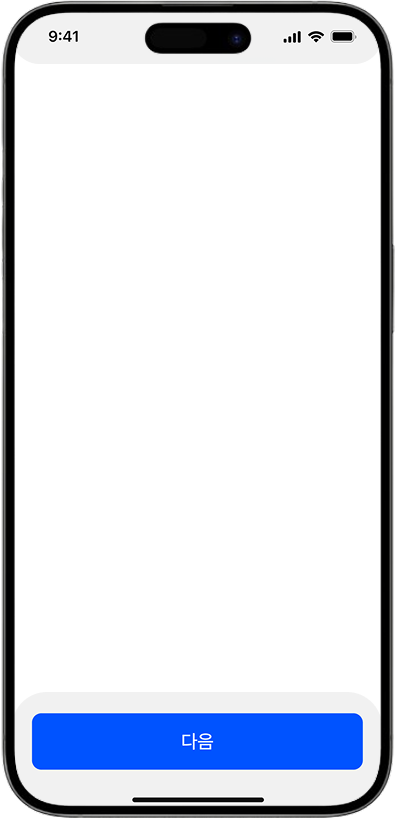
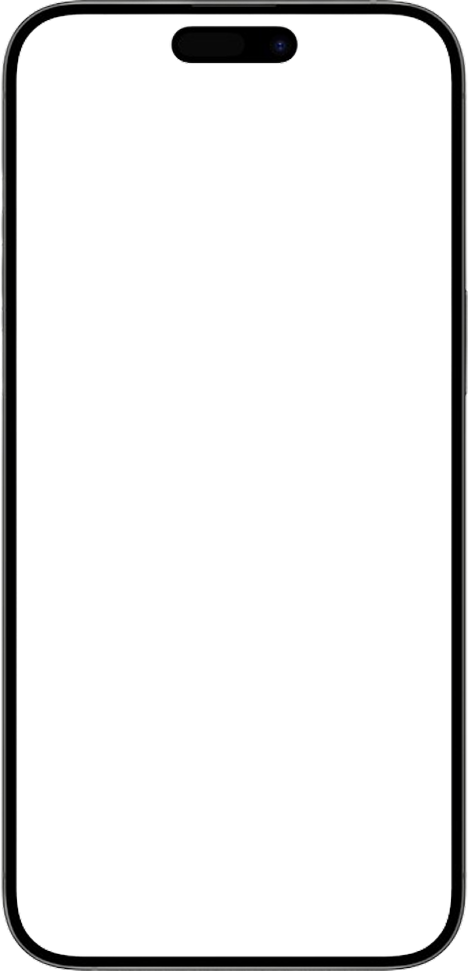
영상 ㅏ속도 1.5배속

Changed region(s): [[0.0, 0.0, 1.0, 1.0], [0.0608, 0.978, 0.1215, 1.0]]

diff --git a/index.js b/index.js
@@ -1,4 +1,7 @@
 const introVideo = document.getElementById("video");
+
+introVideo.playbackRate = 1.5;
+
 const videoSection = document.getElementById("introVideo_wrap");
 
 const videoPlayback = 1000;
@@ -311,7 +314,7 @@ introVideo.addEventListener('seeked', () => {
 Go_getCake_btn.addEventListener("click", ()=>{
   customScrollTo({
         target: '#interaction',
-        offset: -30,
+        offset: 30,
         duration: 1.5
     });
 
@@ -367,6 +370,7 @@ const ScanIssue = document.getElementById('ScanIssue')
 const Food_sharing = document.getElementById('Food_sharing')
 const Look_system = document.getElementById('Look_system')
 const last_wegluePhoto = document.getElementById('last_wegluePhoto')
+const interaction_title = document.getElementById('interaction_title')
 
 
 
@@ -379,32 +383,35 @@ setupScrollSnapObserver(ScanIssue, 0.3, -50, 0);
 setupScrollSnapObserver(Food_sharing, 0.3, -50, 0);
 setupScrollSnapObserver(Look_system, 0.3, -50, 0);
 setupScrollSnapObserver(last_wegluePhoto, 0.3, -50, 0);
+setupScrollSnapObserver(interaction_title , 1, 0, 0);
+
 
 
 
 const moderation_Mockups_bg = document.querySelector('.moderation_Mockups')
-const moderation_Mockup_screen = document.querySelector('.moderation_Mockup_screen')
+const moderation_Mockup_screens = document.querySelectorAll('.moderation_Mockup_screen')
+const Mockup_screen = document.querySelector('.Iphone_MockUp')
 
+let Mockup_screen_num = 0
+
+Mockup_screen.addEventListener("click", () => {
+
+    if(Mockup_screen_num == 5){
+        Mockup_screen_num = 0
+    }
+
+    
+    moderation_Mockup_screens[Mockup_screen_num].classList.add('outLeft')
+
+    Mockup_screen_num++;
+
+    moderation_Mockup_screens[Mockup_screen_num].classList.remove("standby")
+
+
+
+})
 
 let moderation_screen_pos = 0
 let moderation_bg_pos = 225
 
 
-setInterval(()=> {
-    // if(moderation_screen_pos){
-
-   if(moderation_screen_pos < 1660){
-    moderation_bg_pos -=312
-    moderation_screen_pos += 332
-   }else{
-    moderation_screen_pos = 0
-    moderation_bg_pos = 225
-   }
-
-    
-    moderation_Mockup_screen.style.left = `-${moderation_screen_pos}px`
-    
-    moderation_Mockups_bg.style.left = `calc(50% + ${moderation_bg_pos}px)`
-    //  }
-
-}, 3000)

diff --git a/index.html b/index.html
@@ -306,7 +306,7 @@
 
         
         <section id="interaction">
-            <p class="subheading">Try it out!</p>
+            <p class="subheading" id="interaction_title" >Try it out!</p>
             <p class="description">슬기의 케이크가 사라졌어요!<br>
                 직접 위글루 앱을 실행하여 케이크를 훔친 범인을 조회해보세요.</p>
             <ul id="interaction_panel">
@@ -2345,9 +2345,15 @@
 
                     </div>
 
-                    <img class="Iphone_MockUp" src="Img/Mockup_phone_App_moderation.png">
+                    <img class="Iphone_MockUp" src="Img/Mockup_iPhone_.png">
                     <div class="moderation_Mockup_screen_wrap">
-                        <img class="moderation_Mockup_screen" src="Img/moderation_Mockup_screen.png">
+                        <img class="moderation_Mockup_screen" src="Img/phone_screen/phhone_6_1.png">
+                        <img class="moderation_Mockup_screen standby" src="Img/phone_screen/phhone_6_2.png">
+                        <img class="moderation_Mockup_screen standby" src="Img/phone_screen/phhone_6_3.png">
+                        <img class="moderation_Mockup_screen standby" src="Img/phone_screen/phhone_6_4.png">
+                        <img class="moderation_Mockup_screen standby" src="Img/phone_screen/phhone_6_5.png">
+                        <img class="moderation_Mockup_screen standby" src="Img/phone_screen/phhone_6_6.png">
+
                     </div>
                 </div>
 

diff --git a/index.css b/index.css
@@ -1455,12 +1455,13 @@ a {
 }
 
 .designSystem_grid li {
-    padding: 3vw;
+    padding: 1.5vw;
     border: #000000 solid 2px;
     border-radius: 30px;
     font-size: clamp(19px, 1.25vw, 29px);
-    font-weight: 600;
+    font-weight: 400;
     overflow: hidden;
+
 }
 
 .designSystem_grid li:nth-child(1) {
@@ -1558,8 +1559,8 @@ a {
 
 .Symbol p {
     position: absolute;
-    top: 3vw;
-    left: 3vw;
+    top: 1.5vw;
+    left: 1.5vw;
 }
 
 .designSystem_grid li:nth-child(2) {
@@ -1606,8 +1607,8 @@ a {
 
 .Icons p {
     position: absolute;
-    top: 3vw;
-    left: 3vw;
+    top: 1.5vw;
+    left: 1.5vw;
 }
 
 @keyframes icons_rolling {
@@ -2481,7 +2482,7 @@ a {
     align-items: center;
     position: relative;
     width: 97%;
-    height: 90%;
+    height: 99%;
     overflow: hidden;
 }
 
@@ -2497,17 +2498,26 @@ a {
 
 .moderation_Mockup_screen {
     position: absolute;
-    width: 600%;
-    left:0px;
+    height:101%;
+    left:0;
+    
     /* height: 100%; */
     z-index: 1;
     transition: all 1s ease-out;
 }
 
+.moderation_Mockup_screen.standby{
+    left:100%;
+}
+
+.moderation_Mockup_screen.outLeft {
+    left:-100%;
+}
+
 .moderation_Mockups {
     position: absolute;
     top: 5vh;
-    left:calc(50% + 225px);
+    left:0vw;
     width: 110%;
     z-index: 0;
     transition: all 1s ease-out;

diff --git a/Panel.css b/Panel.css
@@ -979,10 +979,7 @@ overflow: hidden;
     z-index:13;
 }
 
-.phone_screen.WarehousingDetails {
-    /* z-index:20; */
 
-}
 
 .phone_screen.appOn{
     display: none;
